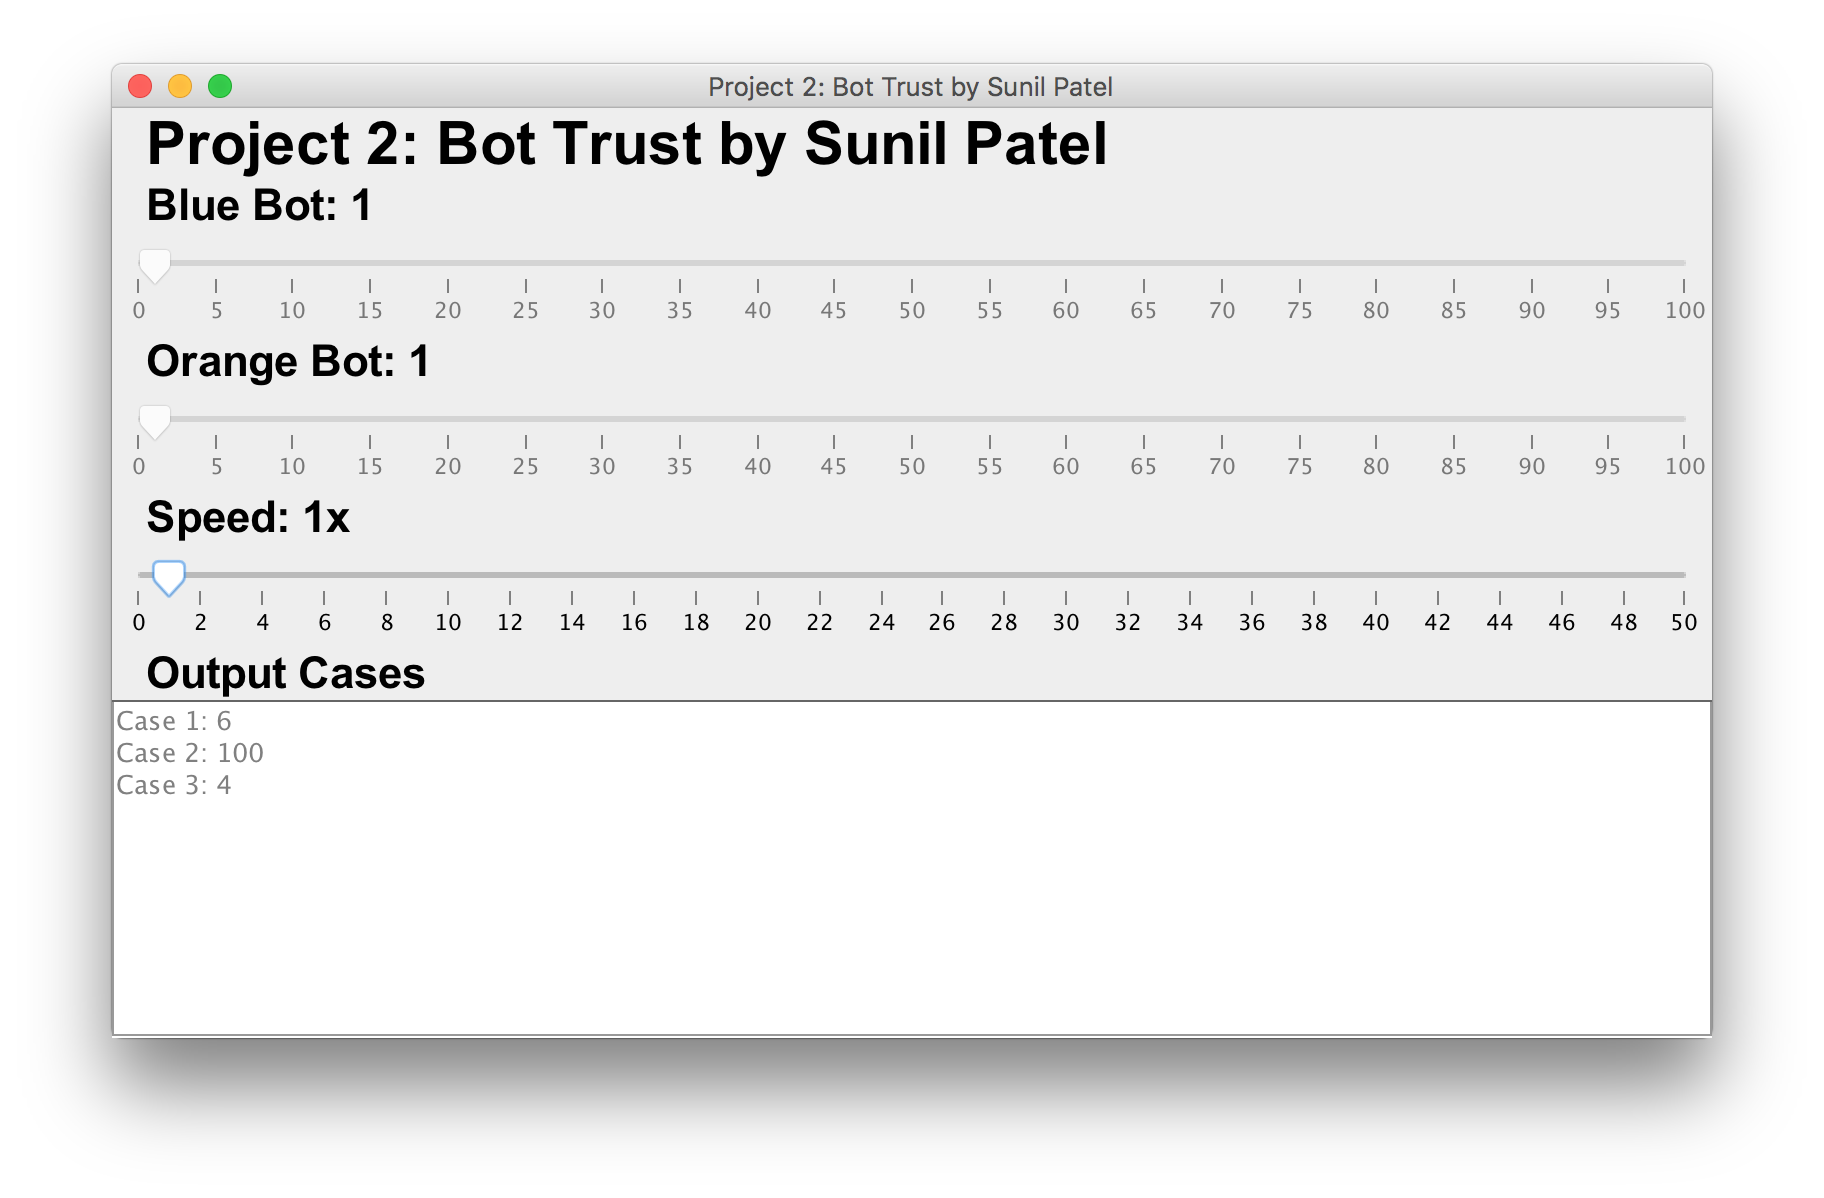
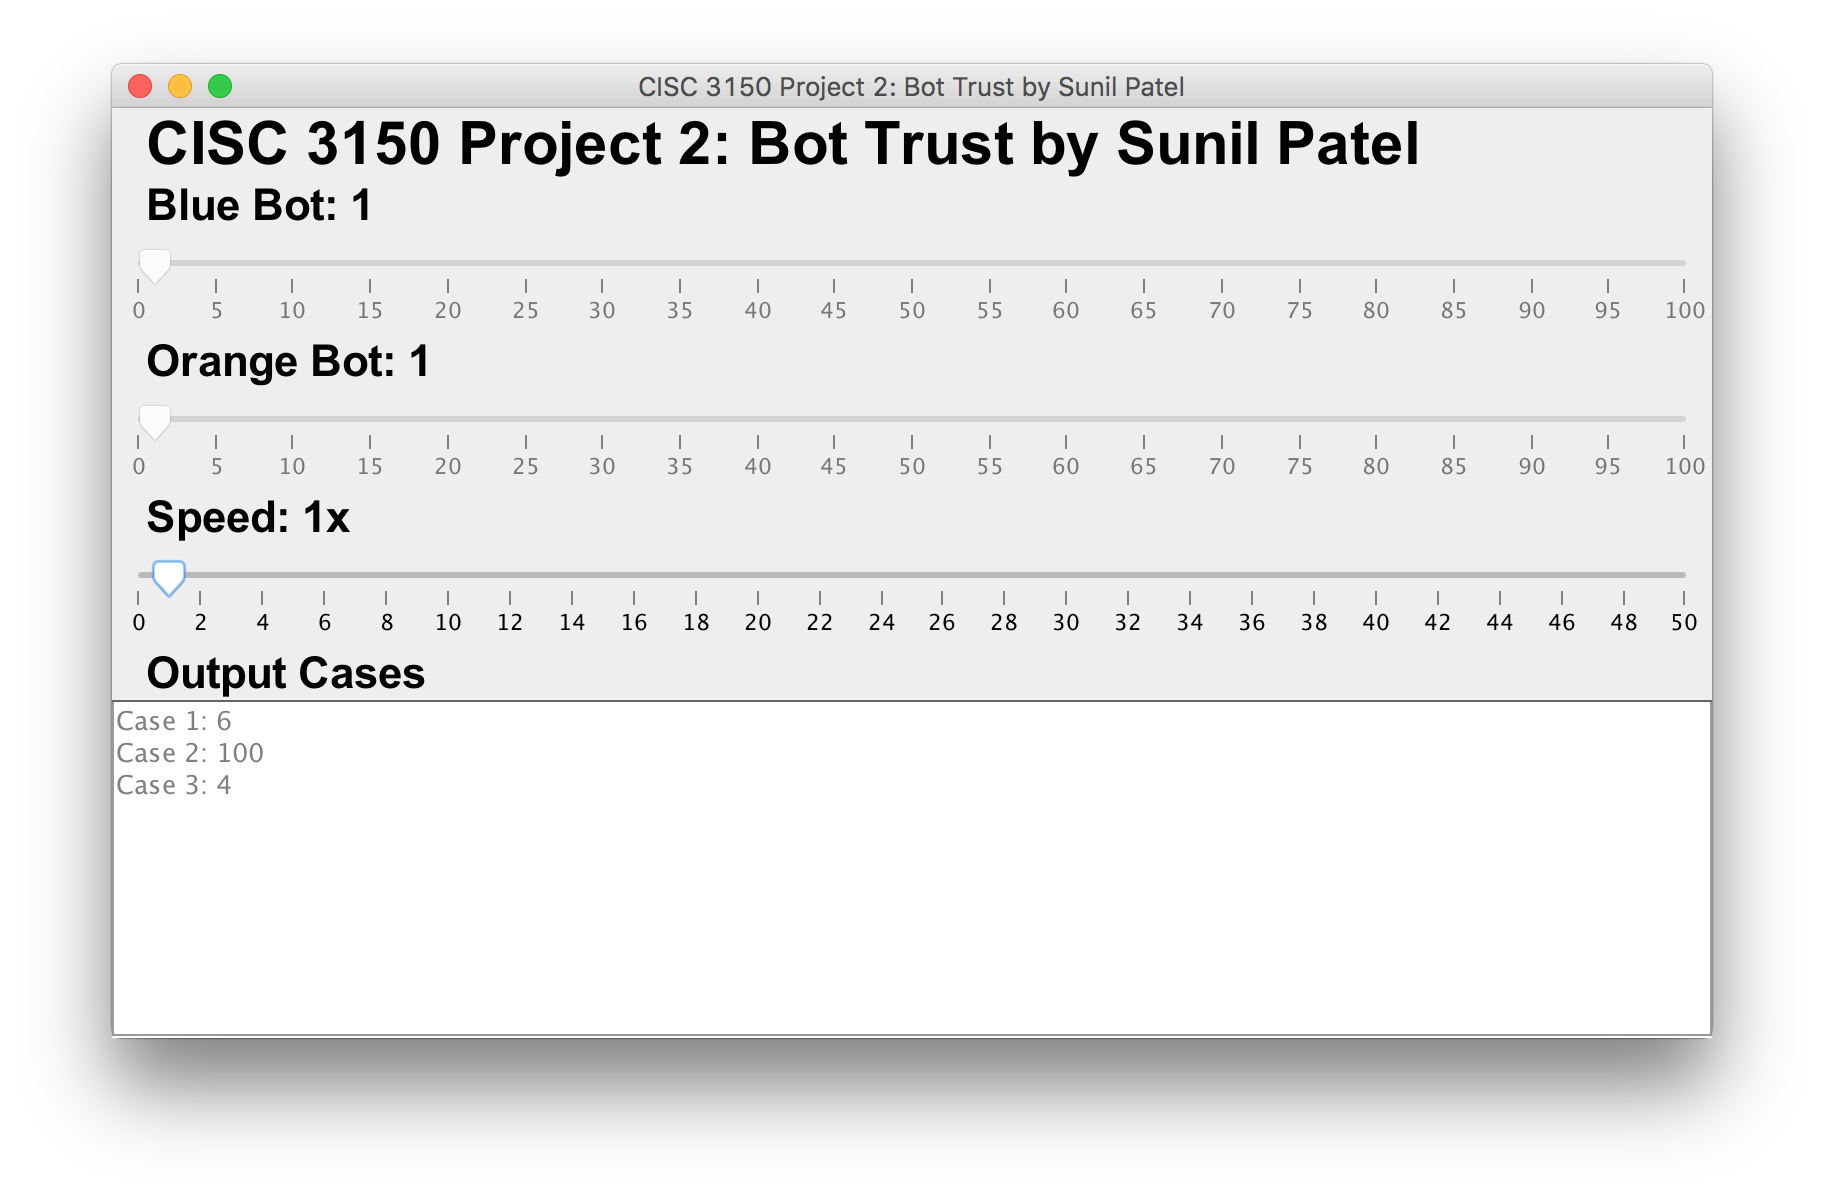
Added class number. how to run the project using terminal

Changed region(s): [[0.0625, 0.0618, 0.7812, 0.1544]]

diff --git a/core/Config.java b/core/Config.java
@@ -3,7 +3,7 @@ package core;
 public class Config {
   static int    MIN_LOCATION  = 1;
   static int    MAX_LOCATION  = 100;
-  static String FRAME_NAME    = "Project 2: Bot Trust by Sunil Patel";
+  static String FRAME_NAME    = "CISC 3150 Project 2: Bot Trust by Sunil Patel";
   static int    FRAME_WIDTH   = 800;
   static int    FRAME_HEIGHT  = 400;
   static int    MAX_SPEED     = 50;

diff --git a/readme.md b/readme.md
@@ -69,3 +69,10 @@ Input               Output
 
 * Small [A-small-practice.in](A-small-practice.in)
 * Large [A-large-practice.in](A-large-practice.in)
+
+
+## Run Project using Terminal
+```sh
+javac BotTrust.java
+java BotTrust < A-small-practice.in > A-small-practice.out
+```
